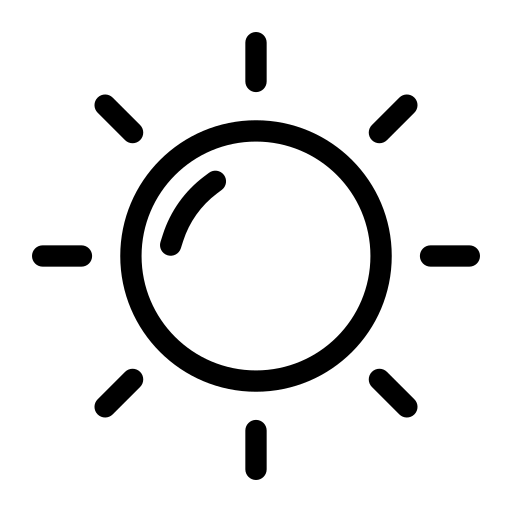
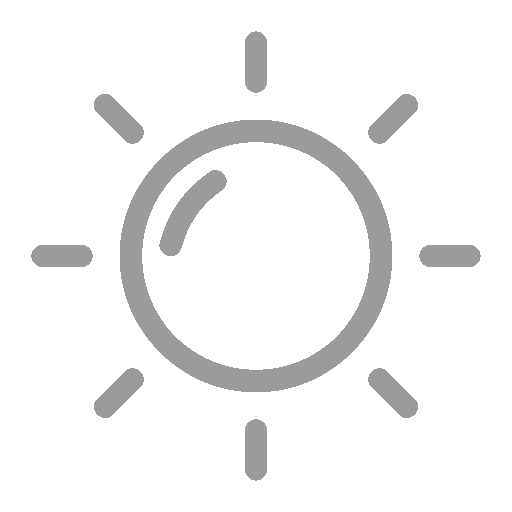
Adicionado a função para mudar o tema

diff --git a/src/pages/PaginaBase/index.jsx b/src/pages/PaginaBase/index.jsx
@@ -5,15 +5,21 @@ import Perfil from '../Perfil';
 import DashBoard from '../Dashboard';
 
 import dashboard from '../../assets/img/casa.png';
+import dashboardEscuro from '../../assets/img/casa-tema-escuro.png';
 import tarefas from '../../assets/img/lista.png';
-import perfil from '../../assets/img/perfil-de-usuario.png';
+import tarefasEscuro from '../../assets/img/lista-tema-escuro.png';
+import perfil from '../../assets/img/perfil-de-usuario-selecionado.png';
+import perfilEscuro from '../../assets/img/perfil-de-usuario-selecionado-tema-escuro.png';
 import Header from '../../components/Header';
+import { useTema } from '../../components/ThemeContext';
 
 function PaginaBase() {
     const [filtro, setFiltro] = useState("dashboard");
     const [pagina, setPagina] = useState("dashboard");
     const [icone, setIcone] = useState("dashboard");
     const [titulo, setTitulo] = useState("Dashboard");
+
+    const { tema } = useTema();
 
     const paginas = {
         dashboard: <DashBoard />,
@@ -22,9 +28,9 @@ function PaginaBase() {
     }
 
     const icones = {
-        dashboard,
-        tarefas,
-        perfil
+        dashboard: tema === "claro" ? dashboard : dashboardEscuro,
+        tarefas: tema === "claro" ? tarefas : tarefasEscuro,
+        perfil: tema === "claro" ? perfil : perfilEscuro
     }
 
     return (
@@ -35,25 +41,24 @@ function PaginaBase() {
                     {titulo}
                 </h2>
                 <ul>
-
                     <li onClick={() => {
                         setTitulo("Dashboard");
                         setFiltro("dashboard");
                         setPagina("dashboard");
                         setIcone("dashboard");
-                    }} className={`filtro-menu-lateral ${filtro === "dashboard" ? "ativo" : ""}`}><img src={dashboard} alt="" />Dashboard</li>
+                    }} className={`filtro-menu-lateral ${filtro === "dashboard" ? "ativo" : ""}`}><img src={tema === "claro" ? dashboard : dashboardEscuro} alt="" />Dashboard</li>
                     <li onClick={() => {
                         setTitulo("Tarefas");
                         setFiltro("tarefas");
                         setPagina("tarefas");
                         setIcone("tarefas");
-                    }} className={`filtro-menu-lateral ${filtro === "tarefas" ? "ativo" : ""}`}><img src={tarefas} alt="" />Tarefas</li>
+                    }} className={`filtro-menu-lateral ${filtro === "tarefas" ? "ativo" : ""}`}><img src={tema === "claro" ? tarefas : tarefasEscuro} alt="" />Tarefas</li>
                     <li onClick={() => {
                         setTitulo("Perfil");
                         setFiltro("perfil");
                         setPagina("perfil");
                         setIcone("perfil");
-                    }} className={`filtro-menu-lateral ${filtro === "perfil" ? "ativo" : ""}`}><img src={perfil} alt="" />Perfil</li>
+                    }} className={`filtro-menu-lateral ${filtro === "perfil" ? "ativo" : ""}`}><img src={tema === "claro" ? perfil : perfilEscuro} alt="" />Perfil</li>
                 </ul>
             </section>
             <div className='minhas-tarefas'>

diff --git a/src/components/Header/index.jsx b/src/components/Header/index.jsx
@@ -1,42 +1,34 @@
-import './Header.css'
+import './Header.css';
 import iconeClaro from '../../assets/img/icone-claro.png';
 import iconeEscuro from '../../assets/img/icone-escuro.png';
-import { useEffect, useState } from 'react';
-import perfil from '../../assets/img/perfil-de-usuario-selecionado.png'
-
+import perfil from '../../assets/img/perfil-de-usuario-selecionado.png';
+import perfilTemaEscuro from '../../assets/img/perfil-de-usuario-selecionado-tema-escuro.png';
+import { useTema } from '../ThemeContext';
 
 function Header({ titulo, setPagina, setTitulo, setFiltro, setIcone }) {
-    const [tema, setTema] = useState(() => {
-        return localStorage.getItem("tema") || "claro";
-    });
+  const { tema, alternarTema } = useTema();
 
-    function mudarTema() {
-        setTema(tema === "claro" ? "escuro" : "claro");
-    }
+  function paginaPerfil() {
+    setPagina("perfil");
+    setTitulo("Perfil");
+    setFiltro("perfil");
+    setIcone("perfil");
+  }
 
-    function paginaPerfil() {
-        setPagina("perfil");
-        setTitulo("Perfil");
-        setFiltro("perfil");
-        setIcone("perfil");
-    }
-
-    useEffect(() => {
-        localStorage.setItem("tema", tema);
-    }, [tema])
-
-    return (
-        <div className='header'>
-            <h2>Gerenciador de {titulo}</h2>
-            <div>
-                <img src={tema === "claro" ? iconeEscuro : iconeClaro}
-                    alt={`Tema ${tema === "claro" ? "escuro" : "claro"}`}
-                    className='icon-tema'
-                    onClick={mudarTema}
-                />
-                <img className='foto' src={perfil} onClick={paginaPerfil}></img></div>
-        </div>
-    )
+  return (
+    <div className='header'>
+      <h2>Gerenciador de {titulo}</h2>
+      <div>
+        <img
+          src={tema === "claro" ? iconeEscuro : iconeClaro}
+          alt={`Tema ${tema === "claro" ? "escuro" : "claro"}`}
+          className='icon-tema'
+          onClick={alternarTema}
+        />
+        <img className='foto' src={tema === "claro" ? perfil : perfilTemaEscuro} onClick={paginaPerfil} />
+      </div>
+    </div>
+  );
 }
 
-export default Header
+export default Header;

diff --git a/src/App.jsx b/src/App.jsx
@@ -1,30 +1,31 @@
 import { BrowserRouter as Router, Routes, Route, Navigate } from "react-router-dom";
-import { useEffect, useState } from 'react'
-import './App.css'
-import Login from './pages/Login'
+import { useEffect, useState } from 'react';
+import './App.css';
+import Login from './pages/Login';
 import Registro from "./pages/Registro";
 import Perfil from "./pages/Perfil";
 import PaginaBase from "./pages/PaginaBase";
+import { ThemeProvider } from "./components/ThemeContext";
 
 function App() {
-  const [token, setToken] = useState()
+  const [token, setToken] = useState();
 
   useEffect(() => {
-    const tokenSalvo = localStorage.getItem("authToken")
+    const tokenSalvo = localStorage.getItem("authToken");
     if (tokenSalvo) {
-      setToken(tokenSalvo)
+      setToken(tokenSalvo);
     }
-  })
+  }, []);
 
   return (
-    <>
+    <ThemeProvider>
       <Router>
         <Routes>
           <Route path="/pag-base" element={<PaginaBase />} />
           <Route path="/registro" element={<Registro />} />
           <Route path="/perfil" element={<Perfil />} />
-
-          <Route path="/"
+          <Route
+            path="/"
             element={
               !token ? (
                 <Login setToken={setToken} />
@@ -32,13 +33,11 @@ function App() {
                 <Navigate to="/pag-base" replace />
               )
             }
-
           />
         </Routes>
       </Router>
-
-    </>
-  )
+    </ThemeProvider>
+  );
 }
 
-export default App
+export default App;

diff --git a/src/components/ThemeContext/index.jsx b/src/components/ThemeContext/index.jsx
@@ -1,0 +1,28 @@
+import { createContext, useContext, useState, useEffect } from 'react';
+
+const ThemeContext = createContext();
+
+export const ThemeProvider = ({ children }) => {
+  const [tema, setTema] = useState(() => {
+    return localStorage.getItem("tema") || "claro";
+  });
+
+  const alternarTema = () => {
+    setTema((tema) => (tema === "claro" ? "escuro" : "claro"));
+  };
+
+  useEffect(() => {
+    localStorage.setItem("tema", tema);
+  }, [tema]);
+
+  return (
+    <ThemeContext.Provider value={{ tema, alternarTema }}>
+      <div className={`app ${tema}`}>
+        {children}
+      </div>
+    </ThemeContext.Provider>
+  );
+};
+
+
+export const useTema = () => useContext(ThemeContext);

diff --git a/src/components/Modal/index.jsx b/src/components/Modal/index.jsx
@@ -1,12 +1,18 @@
-import { useState } from 'react';
+import { useEffect, useState } from 'react';
 import Campo from '../Campo';
 import Formulario from '../Formulario';
 import './Modal.css'
 import Button from '../Button';
 
-function Modal({ setUsuario, estadoModal }) {
+function Modal({ setUsuario, estadoModal, Nome, Email }) {
     const [nome, setNome] = useState('');
     const [email, setEmail] = useState('');
+
+
+    useEffect(() => {
+        setNome(Nome);
+        setEmail(Email);
+    }, [Nome, Email]);
 
     const atualizarUsuario = async (credenciais) => {
         const { nome, email } = credenciais;

diff --git a/src/App.css b/src/App.css
@@ -2,3 +2,26 @@ body {
     font-family: 'Courier New', Courier, monospace;
     margin: 0;
 }
+
+/* App.css */
+.app {
+    transition: background-color 0.3s ease, color 0.3s ease;
+    min-height: 100vh;
+    padding: 20px;
+}
+
+/* Tema Claro */
+.app.claro {
+    background-color: #ffffff;
+    color: #000000;
+}
+
+/* Tema Escuro */
+.app.escuro {
+    background-color: #1b1b1b;
+    color: #9b9b9b;
+
+}
+
+
+/* Exemplo de personalização adicional */

diff --git a/src/components/Campo/index.jsx b/src/components/Campo/index.jsx
@@ -4,7 +4,7 @@ function Campo({ placeholder, valor, onChange, type }) {
     return (<div className='campo'>
         <label htmlFor="">{placeholder}</label>
         <input
-            valor={valor}
+            value={valor}
             type={type}
             onChange={(e) => onChange(e.target.value)}
         />

diff --git a/src/pages/Perfil/index.jsx b/src/pages/Perfil/index.jsx
@@ -72,7 +72,10 @@ function Perfil() {
                 setUsuario={setUsuario}
                 estadoModal={estadoModal}
                 botaoFecharModal={true}
+                Nome={usuario.name}
+                Email={usuario.email}
             />}
+
         </>
 
     );
